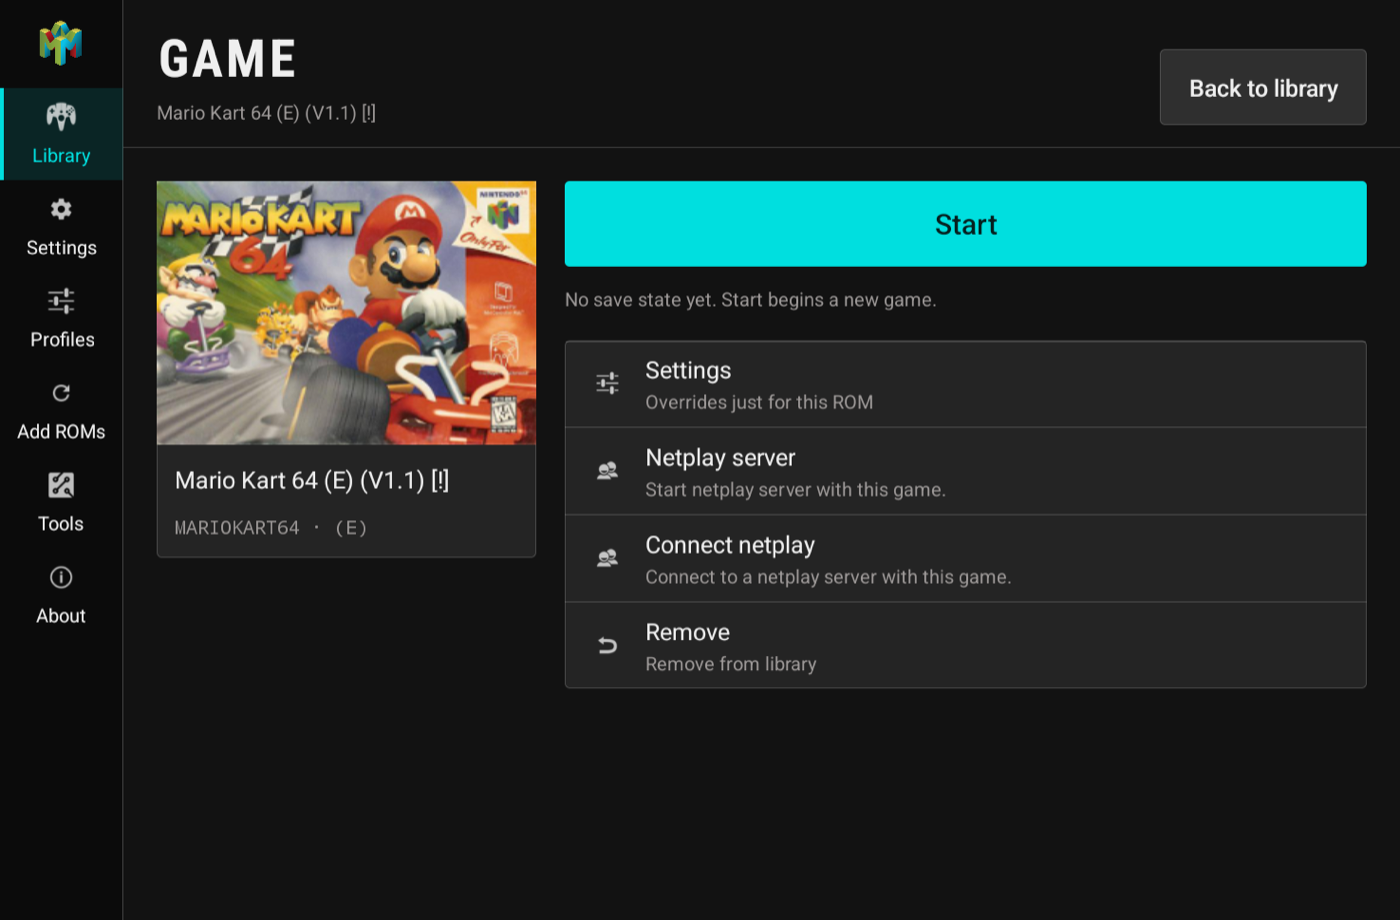
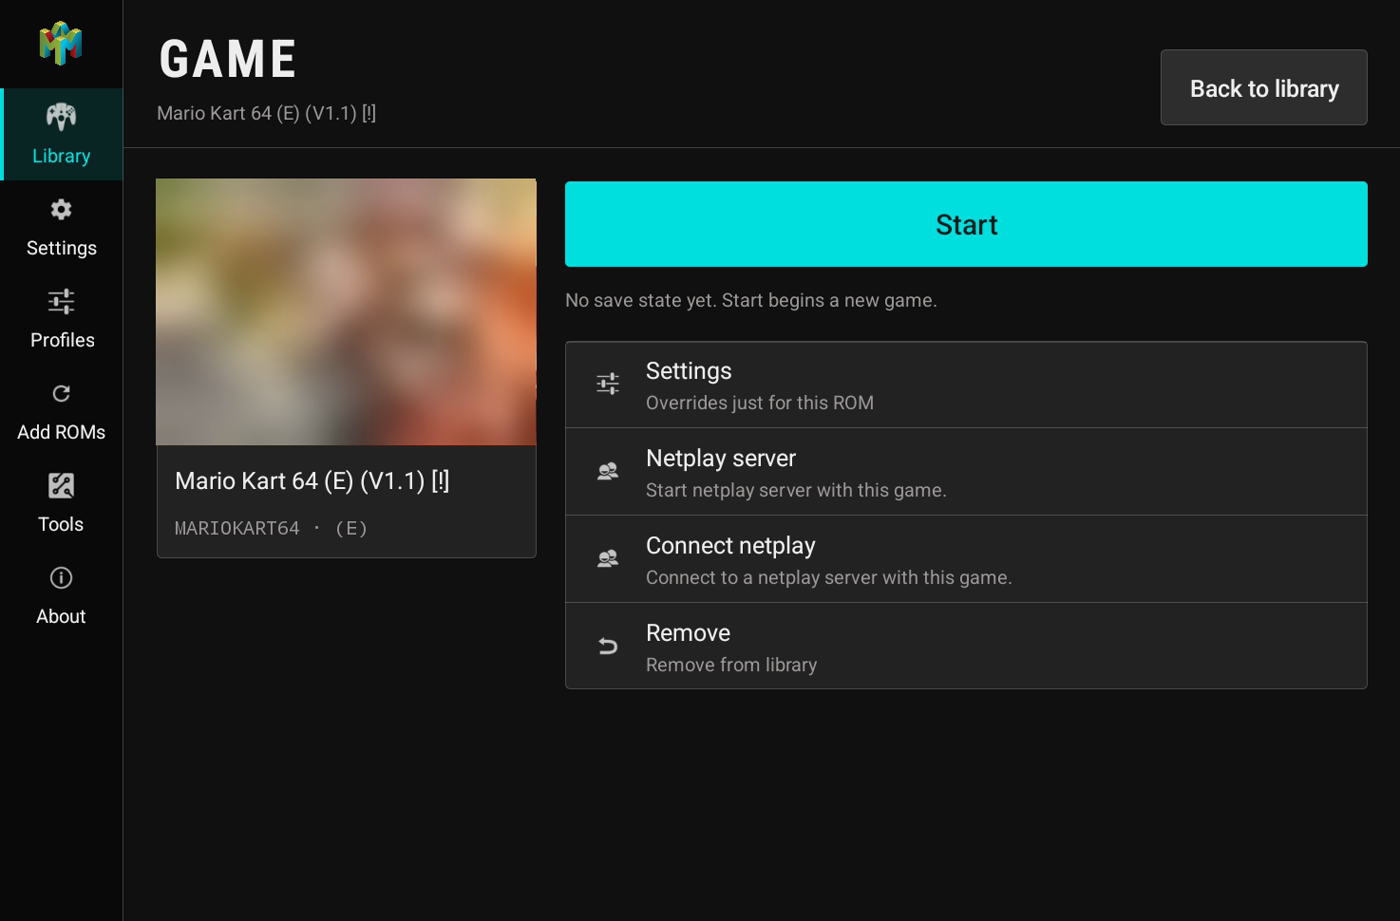
Docs: blur cover art, add the 3D controller in hand
Box art is a full reproduction of a discrete artwork, unlike a screenshot
of the running game, so it is blurred in every library shot. The headline
says N64 rather than the Nintendo trademark. A new in-headset capture
shows the 3D controller held up in front of the game, which the earlier
captures cut off at the frame edge.

diff --git a/README.md b/README.md
@@ -1,6 +1,6 @@
 # M64Plus Quest
 
-**Nintendo 64 on the Meta Quest, in VR, with the Touch controllers.**
+**N64 on the Meta Quest, in VR, with the Touch controllers.**
 
 M64Plus Quest is a fork of [Mupen64Plus-AE](https://github.com/mupen64plus-ae/mupen64plus-ae)
 that turns the emulator into a native OpenXR application. The game is not a flat window floating in
@@ -40,6 +40,8 @@ The position is remembered per mode, so passthrough and full VR each keep their 
 its buttons glowing as you press them — the Z trigger shines through the shell. It can also be
 shown as a flat overlay under the screen, or turned off.
 
+![The 3D controller held up in front of the game](docs/screenshots/vr/controller-in-hands.jpg)
+
 **A dock under the screen and a menu beside it.** Point at them with a controller, the trigger
 clicks. Save, load, screenshot, menu and exit are always one click away, and opening the menu no
 longer covers the game.
@@ -60,7 +62,7 @@ The in-game menu opens beside the picture instead of on top of it, and a control
 
 ![The in-game menu beside the picture](docs/screenshots/vr/game-menu.jpg)
 
-The library and every settings screen, captured from the panel:
+The library and every settings screen, captured from the panel (cover art blurred):
 
 | | |
 |---|---|
